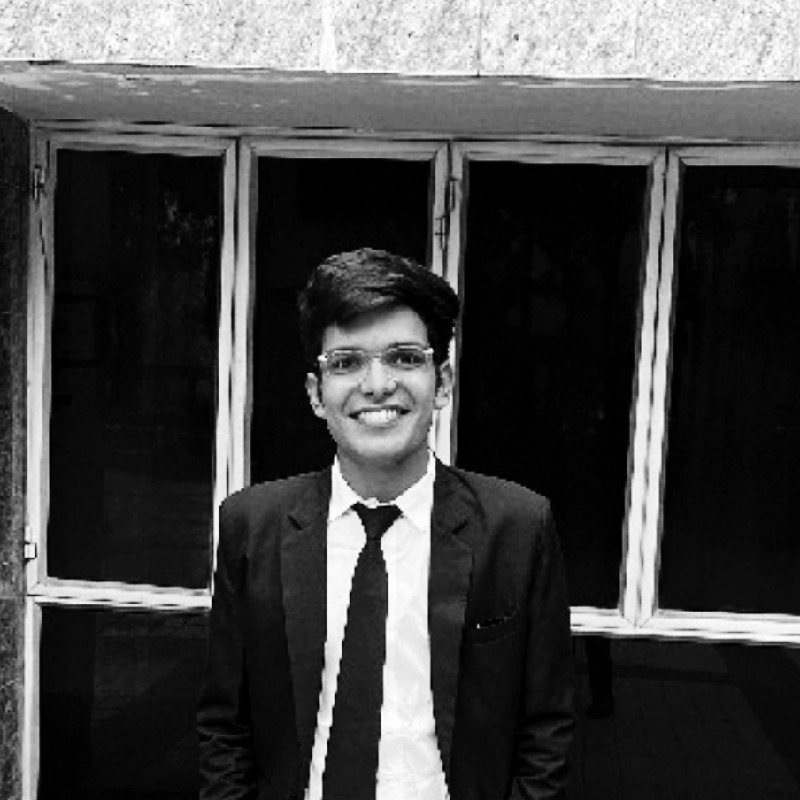
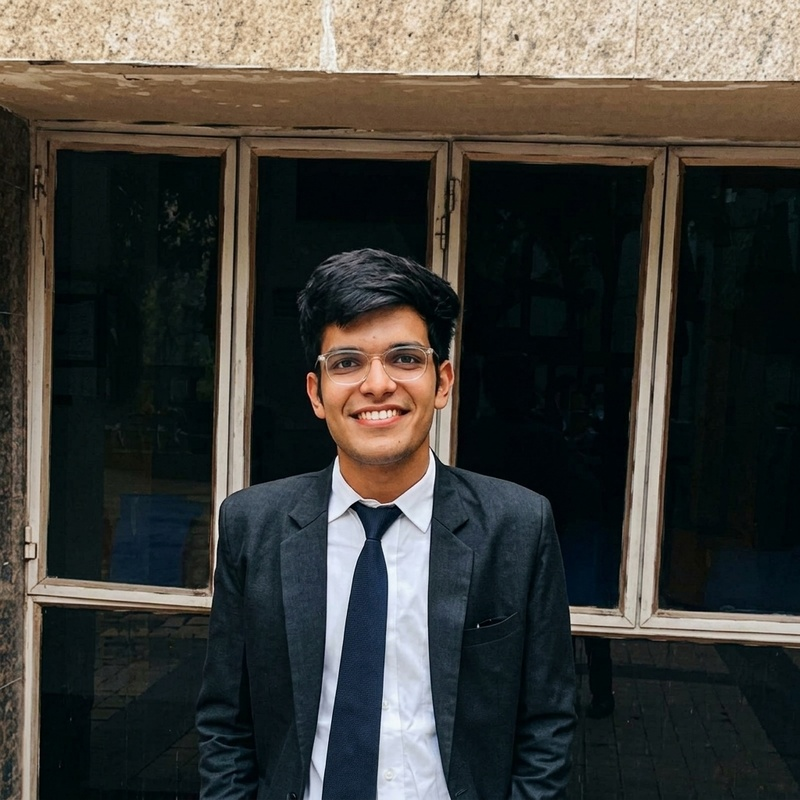
Update alumni company names and colorize Apoorv Bansal photo

diff --git a/index.html b/index.html
@@ -5093,7 +5093,7 @@ c39 -40 38 -54 -4 -70 -28 -11 -42 1 -42 37 0 22 -35 44 -70 44 -10 0 -26 -10
         <div class="ac reveal">
           <a href="https://www.linkedin.com/in/arghyadip-pal-87a945285/" target="_blank" rel="noopener noreferrer" class="ac-av" style="text-decoration:none;"><img src="assets/Arghyadip.jpg" alt="Arghyadip Pal" onerror="this.remove()">A</a>
           <div class="ac-name"><a href="https://www.linkedin.com/in/arghyadip-pal-87a945285/" target="_blank" rel="noopener noreferrer">Arghyadip Pal</a></div>
-          <div class="ac-co">180DC Alumni</div>
+          <div class="ac-co">NoBroker.com</div>
         </div>
         <div class="ac reveal">
           <a href="https://www.linkedin.com/in/akshatmittal05/" target="_blank" rel="noopener noreferrer" class="ac-av" style="text-decoration:none;"><img src="assets/Akshat Mittal.jpg" alt="Akshat Mittal" onerror="this.remove()">A</a>
@@ -5113,7 +5113,7 @@ c39 -40 38 -54 -4 -70 -28 -11 -42 1 -42 37 0 22 -35 44 -70 44 -10 0 -26 -10
         <div class="ac reveal">
           <a href="https://www.linkedin.com/in/anushka-mukherjee-a8449628a/" target="_blank" rel="noopener noreferrer" class="ac-av" style="text-decoration:none;"><img src="assets/Anushka Mukherjee.jpg" alt="Anushka Mukherjee" onerror="this.remove()">A</a>
           <div class="ac-name"><a href="https://www.linkedin.com/in/anushka-mukherjee-a8449628a/" target="_blank" rel="noopener noreferrer">Anushka Mukherjee</a></div>
-          <div class="ac-co">180DC Alumni</div>
+          <div class="ac-co">Pwc</div>
         </div>
         <div class="ac reveal">
           <a href="https://www.linkedin.com/in/sreelekshmi-kishore/" target="_blank" rel="noopener noreferrer" class="ac-av" style="text-decoration:none;"><img src="assets/Sreelekshmi Kishore.jpg" alt="Sreelekshmi Kishore" onerror="this.remove()">S</a>
@@ -5128,7 +5128,7 @@ c39 -40 38 -54 -4 -70 -28 -11 -42 1 -42 37 0 22 -35 44 -70 44 -10 0 -26 -10
         <div class="ac reveal">
           <a href="https://www.linkedin.com/in/abhishek-das-44126324a/" target="_blank" rel="noopener noreferrer" class="ac-av" style="text-decoration:none;"><img src="assets/Abhishek Das.jpg" alt="Abhishek Das" onerror="this.remove()">A</a>
           <div class="ac-name"><a href="https://www.linkedin.com/in/abhishek-das-44126324a/" target="_blank" rel="noopener noreferrer">Abhishek Das</a></div>
-          <div class="ac-co">180DC Alumni</div>
+          <div class="ac-co">Cashfree Payments</div>
         </div>
         <div class="ac reveal">
           <a href="https://www.linkedin.com/in/shristi-singh-a96b02267/" target="_blank" rel="noopener noreferrer" class="ac-av" style="text-decoration:none;"><img src="assets/Shristi Singh.jpg" alt="Shristi Singh" onerror="this.remove()">S</a>
@@ -5138,22 +5138,22 @@ c39 -40 38 -54 -4 -70 -28 -11 -42 1 -42 37 0 22 -35 44 -70 44 -10 0 -26 -10
         <div class="ac reveal">
           <a href="https://www.linkedin.com/in/gaurav-jindal-354061141/" target="_blank" rel="noopener noreferrer" class="ac-av" style="text-decoration:none;"><img src="assets/Gaurav Jindal.jpg" alt="Gaurav Jindal" onerror="this.remove()">G</a>
           <div class="ac-name"><a href="https://www.linkedin.com/in/gaurav-jindal-354061141/" target="_blank" rel="noopener noreferrer">Gaurav Jindal</a></div>
-          <div class="ac-co">180DC Alumni</div>
+          <div class="ac-co">Urban Company</div>
         </div>
         <div class="ac reveal">
           <a href="https://www.linkedin.com/in/vihar-davuluri-40254326a/" target="_blank" rel="noopener noreferrer" class="ac-av" style="text-decoration:none;"><img src="assets/Vihar Davuluri.jpg" alt="Vihar Davuluri" onerror="this.remove()">V</a>
           <div class="ac-name"><a href="https://www.linkedin.com/in/vihar-davuluri-40254326a/" target="_blank" rel="noopener noreferrer">Vihar Davuluri</a></div>
-          <div class="ac-co">180DC Alumni</div>
+          <div class="ac-co">Navi</div>
         </div>
         <div class="ac reveal">
           <a href="https://www.linkedin.com/in/ataullah-baig/" target="_blank" rel="noopener noreferrer" class="ac-av" style="text-decoration:none;"><img src="assets/Ataullah Baig.jpg" alt="Ataullah Baig" onerror="this.remove()">A</a>
           <div class="ac-name"><a href="https://www.linkedin.com/in/ataullah-baig/" target="_blank" rel="noopener noreferrer">Ataullah Baig</a></div>
-          <div class="ac-co">180DC Alumni</div>
+          <div class="ac-co">Mastercard</div>
         </div>
         <div class="ac reveal">
           <a href="https://www.linkedin.com/in/sagar-kumar-ab5041224" target="_blank" rel="noopener noreferrer" class="ac-av" style="text-decoration:none;"><img src="assets/Sagar Kumar.jpg" alt="Sagar Kumar" onerror="this.remove()">S</a>
           <div class="ac-name"><a href="https://www.linkedin.com/in/sagar-kumar-ab5041224" target="_blank" rel="noopener noreferrer">Sagar Kumar</a></div>
-          <div class="ac-co">180DC Alumni</div>
+          <div class="ac-co">Ex VP TSG, Co-Founder LetsLance</div>
         </div>
         <div class="ac reveal">
           <a href="https://www.linkedin.com/in/jagori-bandyopadhyay-b05760229" target="_blank" rel="noopener noreferrer" class="ac-av" style="text-decoration:none;"><img src="assets/Jagori.jpg" alt="Jagori Bandyopadhyay" onerror="this.remove()">J</a>
@@ -5168,7 +5168,7 @@ c39 -40 38 -54 -4 -70 -28 -11 -42 1 -42 37 0 22 -35 44 -70 44 -10 0 -26 -10
         <div class="ac reveal">
           <a href="https://www.linkedin.com/in/sudeep-bhurat" target="_blank" rel="noopener noreferrer" class="ac-av" style="text-decoration:none;"><img src="assets/Sudeep.jpg" alt="Sudeep Bhurat" onerror="this.remove()">S</a>
           <div class="ac-name"><a href="https://www.linkedin.com/in/sudeep-bhurat" target="_blank" rel="noopener noreferrer">Sudeep Bhurat</a></div>
-          <div class="ac-co">180DC Alumni</div>
+          <div class="ac-co">Flipkart</div>
         </div>
         <div class="ac reveal">
           <a href="https://www.linkedin.com/in/sushant-jha-87bb25226" target="_blank" rel="noopener noreferrer" class="ac-av" style="text-decoration:none;"><img src="assets/Sushant Jha.jpg" alt="Sushant Jha" onerror="this.remove()">S</a>
@@ -5213,7 +5213,7 @@ c39 -40 38 -54 -4 -70 -28 -11 -42 1 -42 37 0 22 -35 44 -70 44 -10 0 -26 -10
         <div class="ac reveal">
           <a href="https://www.linkedin.com/in/apoorv-bansal-" target="_blank" rel="noopener noreferrer" class="ac-av" style="text-decoration:none;"><img src="assets/Apoorv Bansal.jpg" alt="Apoorv Bansal" onerror="this.remove()">A</a>
           <div class="ac-name"><a href="https://www.linkedin.com/in/apoorv-bansal-" target="_blank" rel="noopener noreferrer">Apoorv Bansal</a></div>
-          <div class="ac-co">180DC Alumni</div>
+          <div class="ac-co">Navi</div>
         </div>
         <div class="ac reveal">
           <a href="https://www.linkedin.com/in/ragini-laskar-29b316192" target="_blank" rel="noopener noreferrer" class="ac-av" style="text-decoration:none;"><img src="assets/Ragini Laskar.jpg" alt="Ragini Laskar" onerror="this.remove()">R</a>
@@ -5223,7 +5223,7 @@ c39 -40 38 -54 -4 -70 -28 -11 -42 1 -42 37 0 22 -35 44 -70 44 -10 0 -26 -10
         <div class="ac reveal">
           <a href="https://www.linkedin.com/in/bhargaviadusumilli" target="_blank" rel="noopener noreferrer" class="ac-av" style="text-decoration:none;"><img src="assets/Bhargavi Adusumilii.jpg" alt="Bhargavi Adusumilli" onerror="this.remove()">B</a>
           <div class="ac-name"><a href="https://www.linkedin.com/in/bhargaviadusumilli" target="_blank" rel="noopener noreferrer">Bhargavi Adusumilli</a></div>
-          <div class="ac-co">180DC Alumni</div>
+          <div class="ac-co">Digitab.ai</div>
         </div>
         <div class="ac reveal">
           <a href="https://www.linkedin.com/in/tanayaramane" target="_blank" rel="noopener noreferrer" class="ac-av" style="text-decoration:none;"><img src="assets/Tanaya Ramane.jpg" alt="Tanaya Ramane" onerror="this.remove()">T</a>
@@ -5233,7 +5233,7 @@ c39 -40 38 -54 -4 -70 -28 -11 -42 1 -42 37 0 22 -35 44 -70 44 -10 0 -26 -10
         <div class="ac reveal">
           <a href="https://www.linkedin.com/in/shachi-jalote" target="_blank" rel="noopener noreferrer" class="ac-av" style="text-decoration:none;"><img src="assets/Shachi Jalote.jpg" alt="Shachi Jalote" onerror="this.remove()">S</a>
           <div class="ac-name"><a href="https://www.linkedin.com/in/shachi-jalote" target="_blank" rel="noopener noreferrer">Shachi Jalote</a></div>
-          <div class="ac-co">180DC Alumni</div>
+          <div class="ac-co">Shastra VC</div>
         </div>
         <div class="ac reveal">
           <a href="https://www.linkedin.com/in/abhishek-kabi" target="_blank" rel="noopener noreferrer" class="ac-av" style="text-decoration:none;"><img src="assets/Abhishek Kabi.jpg" alt="Abhishek Kabi" onerror="this.remove()">A</a>
@@ -5243,7 +5243,7 @@ c39 -40 38 -54 -4 -70 -28 -11 -42 1 -42 37 0 22 -35 44 -70 44 -10 0 -26 -10
         <div class="ac reveal">
           <a href="https://www.linkedin.com/in/nikitakishore" target="_blank" rel="noopener noreferrer" class="ac-av" style="text-decoration:none;"><img src="assets/Nikita Kishore.jpg" alt="Nikita Kishore" onerror="this.remove()">N</a>
           <div class="ac-name"><a href="https://www.linkedin.com/in/nikitakishore" target="_blank" rel="noopener noreferrer">Nikita Kishore</a></div>
-          <div class="ac-co">180DC Alumni</div>
+          <div class="ac-co">IIMA, BCG</div>
         </div>
         <div class="ac reveal">
           <a href="https://www.linkedin.com/in/aniketshah30" target="_blank" rel="noopener noreferrer" class="ac-av" style="text-decoration:none;"><img src="assets/Aniket Shah.jpg" alt="Aniket Shah" onerror="this.remove()">A</a>
@@ -5253,7 +5253,7 @@ c39 -40 38 -54 -4 -70 -28 -11 -42 1 -42 37 0 22 -35 44 -70 44 -10 0 -26 -10
         <div class="ac reveal">
           <a href="https://www.linkedin.com/in/-nikhil-kumar" target="_blank" rel="noopener noreferrer" class="ac-av" style="text-decoration:none;"><img src="assets/Nikhil Kumar.jpg" alt="Nikhil Kumar" onerror="this.remove()">N</a>
           <div class="ac-name"><a href="https://www.linkedin.com/in/-nikhil-kumar" target="_blank" rel="noopener noreferrer">Nikhil Kumar</a></div>
-          <div class="ac-co">180DC Alumni</div>
+          <div class="ac-co">L.E.K.</div>
         </div>
         <div class="ac reveal">
           <a href="https://www.linkedin.com/in/bhavik-jain-142545170" target="_blank" rel="noopener noreferrer" class="ac-av" style="text-decoration:none;"><img src="assets/Bhavik Jain.jpg" alt="Bhavik Jain" onerror="this.remove()">B</a>
@@ -5268,12 +5268,12 @@ c39 -40 38 -54 -4 -70 -28 -11 -42 1 -42 37 0 22 -35 44 -70 44 -10 0 -26 -10
         <div class="ac reveal">
           <a href="https://www.linkedin.com/in/amritashbharadwaj" target="_blank" rel="noopener noreferrer" class="ac-av" style="text-decoration:none;"><img src="assets/Amritasg Bharadwaj.jpg" alt="Amritash Bharadwaj" onerror="this.remove()">A</a>
           <div class="ac-name"><a href="https://www.linkedin.com/in/amritashbharadwaj" target="_blank" rel="noopener noreferrer">Amritash Bharadwaj</a></div>
-          <div class="ac-co">180DC Alumni</div>
+          <div class="ac-co">IIMB, BCG</div>
         </div>
         <div class="ac reveal">
           <a href="https://www.linkedin.com/in/keshavgodala" target="_blank" rel="noopener noreferrer" class="ac-av" style="text-decoration:none;"><img src="assets/Keshav Godala.jpg" alt="Keshav Godala" onerror="this.remove()">K</a>
           <div class="ac-name"><a href="https://www.linkedin.com/in/keshavgodala" target="_blank" rel="noopener noreferrer">Keshav Godala</a></div>
-          <div class="ac-co">180DC Alumni</div>
+          <div class="ac-co">Co-Founder InfinityBox</div>
         </div>
         <div class="ac reveal">
           <a href="https://www.linkedin.com/in/ishandas" target="_blank" rel="noopener noreferrer" class="ac-av" style="text-decoration:none;"><img src="assets/Ishan Das.jpg" alt="Ishan Das" onerror="this.remove()">I</a>
@@ -5288,12 +5288,12 @@ c39 -40 38 -54 -4 -70 -28 -11 -42 1 -42 37 0 22 -35 44 -70 44 -10 0 -26 -10
         <div class="ac reveal">
           <a href="https://www.linkedin.com/in/yasaswini-gedela-5598b6199" target="_blank" rel="noopener noreferrer" class="ac-av" style="text-decoration:none;"><img src="assets/Yasaswini Gedela.jpg" alt="Yasaswini Gedela" onerror="this.remove()">Y</a>
           <div class="ac-name"><a href="https://www.linkedin.com/in/yasaswini-gedela-5598b6199" target="_blank" rel="noopener noreferrer">Yasaswini Gedela</a></div>
-          <div class="ac-co">Amazon</div>
+          <div class="ac-co">Amazon, IIMK</div>
         </div>
         <div class="ac reveal">
           <a href="https://www.linkedin.com/in/divyansh-d-599b93112" target="_blank" rel="noopener noreferrer" class="ac-av" style="text-decoration:none;"><img src="assets/Divyansh Dewra.jpg" alt="Divyansh Dewra" onerror="this.remove()">D</a>
           <div class="ac-name"><a href="https://www.linkedin.com/in/divyansh-d-599b93112" target="_blank" rel="noopener noreferrer">Divyansh Dewra</a></div>
-          <div class="ac-co">180DC Alumni</div>
+          <div class="ac-co">Carelon</div>
         </div>
         <div class="ac reveal">
           <a href="https://www.linkedin.com/in/harshal-dupare-59221316b" target="_blank" rel="noopener noreferrer" class="ac-av" style="text-decoration:none;"><img src="assets/Harshal Dupare.jpg" alt="Harshal Dupare" onerror="this.remove()">H</a>
@@ -5303,17 +5303,17 @@ c39 -40 38 -54 -4 -70 -28 -11 -42 1 -42 37 0 22 -35 44 -70 44 -10 0 -26 -10
         <div class="ac reveal">
           <a href="https://www.linkedin.com/in/tanishq-bansal-2104" target="_blank" rel="noopener noreferrer" class="ac-av" style="text-decoration:none;"><img src="assets/Tanishq Bansal.jpg" alt="Tanishq Bansal" onerror="this.remove()">T</a>
           <div class="ac-name"><a href="https://www.linkedin.com/in/tanishq-bansal-2104" target="_blank" rel="noopener noreferrer">Tanishq Bansal</a></div>
-          <div class="ac-co">180DC Alumni</div>
+          <div class="ac-co">Blinkit</div>
         </div>
         <div class="ac reveal">
           <a href="https://www.linkedin.com/in/himanshudang" target="_blank" rel="noopener noreferrer" class="ac-av" style="text-decoration:none;"><img src="assets/Himanshu Dang.jpg" alt="Himanshu Dang" onerror="this.remove()">H</a>
           <div class="ac-name"><a href="https://www.linkedin.com/in/himanshudang" target="_blank" rel="noopener noreferrer">Himanshu Dang</a></div>
-          <div class="ac-co">180DC Alumni</div>
+          <div class="ac-co">Krafton</div>
         </div>
         <div class="ac reveal">
           <a href="https://www.linkedin.com/in/gauranshi-chauhan" target="_blank" rel="noopener noreferrer" class="ac-av" style="text-decoration:none;"><img src="assets/Gauranshi Chauhan.jpg" alt="Gauranshi Chauhan" onerror="this.remove()">G</a>
           <div class="ac-name"><a href="https://www.linkedin.com/in/gauranshi-chauhan" target="_blank" rel="noopener noreferrer">Gauranshi Chauhan</a></div>
-          <div class="ac-co">180DC Alumni</div>
+          <div class="ac-co">Honeywell</div>
         </div>
         <div class="ac reveal">
           <a href="https://www.linkedin.com/in/debajit-chakraborty-iitkgp" target="_blank" rel="noopener noreferrer" class="ac-av" style="text-decoration:none;"><img src="assets/Debajit Chakraborty.jpg" alt="Debajit Chakraborty" onerror="this.remove()">D</a>
